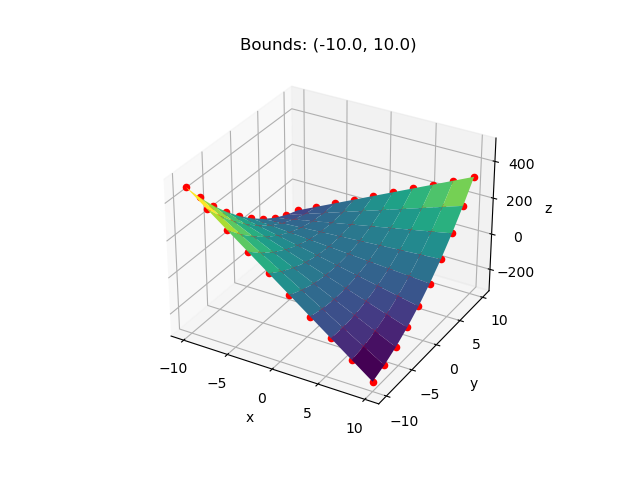
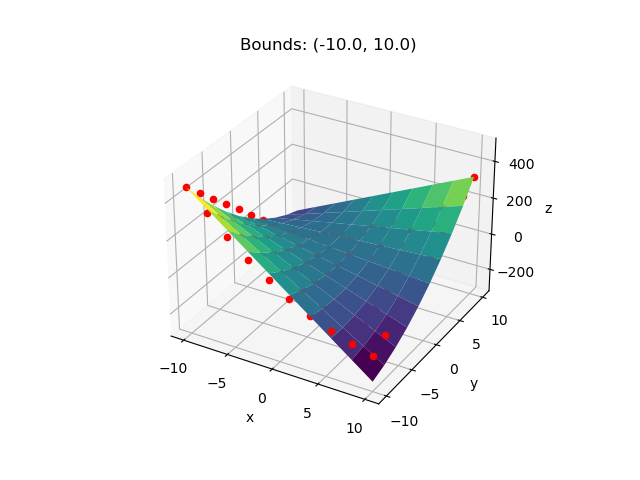
Updated to generate fitness plots

diff --git a/functions/problem_6_2.py b/functions/problem_6_2.py
@@ -1,2 +1,2 @@
 def f_6_2(X1: float, X2: float) -> float:
-    return (1.197325013748868 - (((((1.197325013748868 / (1.0077944703967248 + -4.7965134053561576)) / -4.7965134053561576) / 0.2928506794095398) * (1.0077944703967248 + ((X2  * 1.0077944703967248) * (-4.7965134053561576 * X2 )))) + (X1  * ((((((0.020983823307344274 / X1 ) * 0.020983823307344274) - (X2  / (1.0077944703967248 * ((X1  - X1 ) * (1.197325013748868 / 3.2449156044601093))))) * (3.2449156044601093 + (0.2928506794095398 / ((X2  * ((4.266016752182843 / ((0.2928506794095398 - X2 ) - -4.7965134053561576)) * ((X1  - X1 ) - ((0.2928506794095398 + (((1.197325013748868 * ((X1  / (2.685240144287202 - (((-4.7965134053561576 / -4.7965134053561576) + X1 ) * ((X1  * (((1.197325013748868 + ((X2  * 1.0077944703967248) * (-4.7965134053561576 * X2 ))) - ((((2.685240144287202 * X2 ) + ((-4.7965134053561576 - 4.266016752182843) + 1.0077944703967248)) / 1.197325013748868) + 2.685240144287202)) - 1.0077944703967248)) / ((-4.7965134053561576 * (4.266016752182843 + ((X1  + 1.0077944703967248) + 1.197325013748868))) * (((((-3.7719168591357075 * 1.197325013748868) + (((1.0077944703967248 * 1.0077944703967248) + (1.197325013748868 / (1.0077944703967248 + -4.7965134053561576))) + (2.685240144287202 * 0.2928506794095398))) / ((-4.7965134053561576 * ((((((0.020983823307344274 / 3.2449156044601093) * X2 ) - (X2  / ((4.266016752182843 / 4.266016752182843) * ((((((0.020983823307344274 / X1 ) * X2 ) - (X2  / -4.7965134053561576)) * (3.2449156044601093 + (0.2928506794095398 / (-4.7965134053561576 - 2.685240144287202)))) - ((((0.2928506794095398 * 4.266016752182843) / 1.197325013748868) + 2.685240144287202) / 1.197325013748868)) - (-3.7719168591357075 * 2.685240144287202))))) * (3.2449156044601093 + (0.020983823307344274 * (3.2449156044601093 + (1.197325013748868 / 2.685240144287202))))) - ((1.197325013748868 + 2.685240144287202) / 1.197325013748868)) - (-3.7719168591357075 * 2.685240144287202))) * (((((-4.7965134053561576 - (-3.7719168591357075 * X2 )) + (((2.685240144287202 * 1.0077944703967248) + 1.0077944703967248) + (2.685240144287202 * 0.5135971897607963))) - 0.020983823307344274) - 4.266016752182843) - 2.685240144287202))) - 0.2928506794095398) - 0.2928506794095398)))))) * 0.2928506794095398)) - X1 ) / 2.685240144287202)) / 3.2449156044601093)))) - 1.197325013748868)))) - ((((0.2928506794095398 * 4.266016752182843) / 1.197325013748868) + 2.685240144287202) / 1.197325013748868)) - (-3.7719168591357075 * 2.685240144287202)))))
+    return (((((0.5827181539040085 + (((X2  / ((-1.1783582679246374 + ((((-0.19871061019247804 / (((((X2  * -0.7037190212596256) / X2 ) + ((-0.7037190212596256 - 4.494830038279362) + -4.221831542127931)) * 0.5426288406639284) - (-3.8315788666555797 - X2 ))) - (X2  * -3.8315788666555797)) + (((4.926005090251472 * -3.8315788666555797) - (X2  * (((-0.7037190212596256 / 0.5426288406639284) + ((-4.221831542127931 - (((((((X2  * -3.8315788666555797) + (X2  / -4.221831542127931)) + (-0.7037190212596256 / -1.1783582679246374)) + ((4.926005090251472 / 4.494830038279362) - (-0.7037190212596256 - 0.5827181539040085))) * X2 ) / (0.5827181539040085 / (((X2  * -1.1783582679246374) / (((-0.7037190212596256 * 4.926005090251472) + 0.5827181539040085) + (0.5827181539040085 * (((((0.5827181539040085 + 0.5827181539040085) - ((((0.5827181539040085 + ((-0.19871061019247804 * ((0.5827181539040085 / -3.5848492352529338) + -1.1783582679246374)) + 0.5426288406639284)) + -0.19871061019247804) - (-1.1783582679246374 * ((-3.5848492352529338 + ((-1.1783582679246374 / (0.5827181539040085 - -4.221831542127931)) + (-0.19871061019247804 * (-1.1783582679246374 * (0.5827181539040085 * -0.7037190212596256))))) * (X2  / (0.5426288406639284 / -3.5848492352529338))))) * -0.7037190212596256)) / -1.1783582679246374) / ((-0.19871061019247804 - 4.926005090251472) - -3.5848492352529338)) + -1.1783582679246374)))) * (0.5827181539040085 - 0.5827181539040085)))) / 0.5827181539040085)) - (((4.494830038279362 - 0.5426288406639284) - (0.5426288406639284 - (0.5827181539040085 / (((0.5827181539040085 + -1.1783582679246374) - (X2  * (((X2  * ((X1  - -1.1783582679246374) + -1.1783582679246374)) / (-1.1783582679246374 * X2 )) - 0.5827181539040085))) - (4.494830038279362 * (0.5426288406639284 * (-1.1783582679246374 / 4.926005090251472))))))) + -4.221831542127931))) + (0.5426288406639284 * -3.8315788666555797)))) / ((-1.1783582679246374 + ((-4.221831542127931 + -3.5848492352529338) - -1.1783582679246374)) + (X2  * ((-3.5848492352529338 * (4.926005090251472 + 0.5827181539040085)) + (0.5827181539040085 * ((0.5827181539040085 / (((X2  - 0.5426288406639284) * -3.8315788666555797) - ((4.494830038279362 * ((X1  - ((-1.1783582679246374 * -0.19871061019247804) - -3.5848492352529338)) * (0.5827181539040085 + (0.5827181539040085 / 4.926005090251472)))) - -3.5848492352529338))) + (-4.221831542127931 / ((((-4.221831542127931 + (-3.5848492352529338 + 0.5827181539040085)) + -0.19871061019247804) * -0.7037190212596256) - X2 ))))))))) * 0.5426288406639284)) * (((((-3.8315788666555797 * 4.494830038279362) * -0.19871061019247804) * -3.5848492352529338) - (((X2  * -3.8315788666555797) - (((-0.7037190212596256 / (X2  * ((((0.5827181539040085 * -3.5848492352529338) * -3.5848492352529338) - (-1.1783582679246374 - 0.5426288406639284)) - (-0.7037190212596256 - -0.19871061019247804)))) + X1 ) * X2 )) - 0.5426288406639284)) - (-0.7037190212596256 - -0.19871061019247804)))) + X1 ) * (-0.7037190212596256 - -3.8315788666555797))) + (X1  / (X2  / X1 ))) + (0.5426288406639284 + ((-3.8315788666555797 + -3.5848492352529338) - 0.5426288406639284))) * X2 ) - -1.1783582679246374)

diff --git a/main.py b/main.py
@@ -6,6 +6,43 @@ from settings import TinyGPSettings
 from task_runner import TinyGPRunner
 
 
+# Options are in format task_id.bound_id, divided by spaces.
+def generate_functions(tasks: list[Task], options: str = ''):
+    if options == '':
+        for task in tasks:
+            for i in range(len(task.bounds)):
+                print(f'Running task {task.task_id} with bounds {task.bounds[i]}')
+                task_runner = TinyGPRunner(task.filename(i))
+                task_runner.run()
+                print(f'Finished running task {task.task_id} with bounds {task.bounds[i]}')
+    else:
+        for task_bound_id in options.split(' '):
+            task_id = int(task_bound_id.split('.')[0]) - 1
+            bound_id = int(task_bound_id.split('.')[1])
+
+            task = tasks[task_id]
+
+            print(f'Running task {task_id + 1} with bounds {task.bounds[bound_id]}')
+            task_runner = TinyGPRunner(task.filename(bound_id))
+            task_runner.run()
+            print(f'Finished running task {task.task_id + 1} with bounds {task.bounds[bound_id]}')
+
+
+# Options are task IDs with spaces in between.
+def generate_presentations(tasks: list[Task], options: str = ''):
+    if options == '':
+        for task in tasks:
+            presentation = TinyGPPresentation(task)
+            presentation.presentation_generation()
+            print(f'Finished generating presentation of task {task.task_id}')
+    else:
+        for task_id in options.split(' '):
+            task = tasks[int(task_id) - 1]
+            presentation = TinyGPPresentation(task)
+            presentation.presentation_generation()
+            print(f'Finished generating presentation of task {task.task_id}')
+
+
 def main():
     n = 100
     x = sp.Symbol('x')
@@ -16,24 +53,17 @@ def main():
         Task(1, 5 * x ** 3 - 2 * x ** 2 + 3 * x - 17, settings, [(-10.0, 10.0), (0.0, 100.0), (-1.0, 1.0), (-1000, 1000)], n),
         Task(2, sp.sin(x) + sp.cos(x), settings, [(-3.14, 3.14), (0.0, 7.0), (0.0, 100.0), (-100, 100)], n),
         Task(3, 2 * sp.ln(x + 1), settings, [(0.0, 4.0), (0.0, 9.0), (0.0, 99.0), (0.0, 999.0)], n),
-        Task(4, x + 2 * y, settings, [(0.0, 1.0), (-10.0, 10.0), (0.0, 100.0), (-1000, 1000)], n // 10),
+        Task(4, x + 2 * y, settings, [(0.0, 1.0), (-10.0, 10.0), (0.0, 100.0), (-1000, 1000)], int(n ** 0.5)),
         Task(5, sp.sin(x / 2) + 2 * sp.cos(x), settings, [(-3.14, 3.14), (0.0, 7.0), (0.0, 100.0), (-100, 100)], n),
-        Task(6, x ** 2 + 3 * x * y - 7 * y + 1, settings, [(-10.0, 10.0), (0.1, 100.0), (-0.99, 1.0), (-1000, 1000)], n // 10)
+        Task(6, x ** 2 + 3 * x * y - 7 * y + 1, settings, [(-10.0, 10.0), (0.1, 100.0), (-1.0, 1.0), (-1000, 1000)], int(n ** 0.5))
     ]
 
     for task in tasks:
         task.run()
         print(f'Finished generation of task {task.task_id}')
 
-    for task in tasks:
-        for i in range(len(task.bounds)):
-            print(f'Running task {task.task_id} with bounds {task.bounds[i]}')
-            task_runner = TinyGPRunner(task.filename(i))
-            task_runner.run()
-            print(f'Finished running task {task.task_id} with bounds {task.bounds[i]}')
-        presentation = TinyGPPresentation(task)
-        presentation.presentation_generation()
-        print(f'Finished generating presentation of task {task.task_id}')
+    generate_functions(tasks)
+    generate_presentations(tasks)
 
 
 if __name__ == '__main__':

diff --git a/task_runner.py b/task_runner.py
@@ -1,4 +1,5 @@
 import subprocess
+import matplotlib.pyplot as plt
 
 
 class TinyGPRunner:
@@ -10,6 +11,8 @@ class TinyGPRunner:
 
     def run(self):
         best_individual = ''
+        best_fitness_values = []
+        avg_fitness_values = []
         with subprocess.Popen(['java', f'{self.JAVA_FILE_DIR}.{self.JAVA_CLASS_NAME}', self.problem_path],
                               stdout=subprocess.PIPE,
                               bufsize=1,
@@ -17,7 +20,12 @@ class TinyGPRunner:
 
             for line in p.stdout:
                 if 'Generation' in line:
-                    best_fitness = self.extract_best_fitness(line)
+                    best_fitness_values.append(self.extract_best_fitness(line))
+                    avg_fitness_values.append(self.extract_average_fitness(line))
+                    generation = self.extract_generation(line)
+
+                    if generation % 10 == 0:
+                        print(f'Generation {generation} finished')
 
                 if 'Best Individual' in line:
                     best_individual = line.replace('Best Individual: ', '').strip()
@@ -39,9 +47,22 @@ class TinyGPRunner:
             f.write(') -> float:\n')
             f.write(f'    return {best_individual}')
 
+        with open(f'functions/plots/{problem_name}.png', 'wb') as f:
+            plt.plot(range(1, len(best_fitness_values) + 1), best_fitness_values, label='Best fitness')
+            plt.plot(range(1, len(avg_fitness_values) + 1), avg_fitness_values, label='Average fitness')
+            plt.xlabel('Generation')
+            plt.ylabel('Fitness')
+            plt.title(f'Best and average fitness values for problem {problem_name}')
+            plt.legend()
+            plt.savefig(f, format='png')
+
     @staticmethod
     def extract_best_fitness(line: str) -> float:
         return float(line.split(' ')[4].replace('Fitness=', ''))
+
+    @staticmethod
+    def extract_average_fitness(line: str) -> float:
+        return float(line.split('')[2].replace('Fitness=', ''))
 
     @staticmethod
     def extract_generation(line: str) -> int:

diff --git a/results/task_6_presentation.py b/results/task_6_presentation.py
@@ -27,7 +27,7 @@ def plot_function(f, bounds: tuple[float, float], bound_id: int):
 
 def main():
     plot_function(f_6_0, (-10.0, 10.0), 0)
-    plot_function(f_6_1, (0.0, 100.0), 1)
+    plot_function(f_6_1, (0.1, 100.0), 1)
     plot_function(f_6_2, (-1.0, 1.0), 2)
     plot_function(f_6_3, (-1000, 1000), 3)
 
